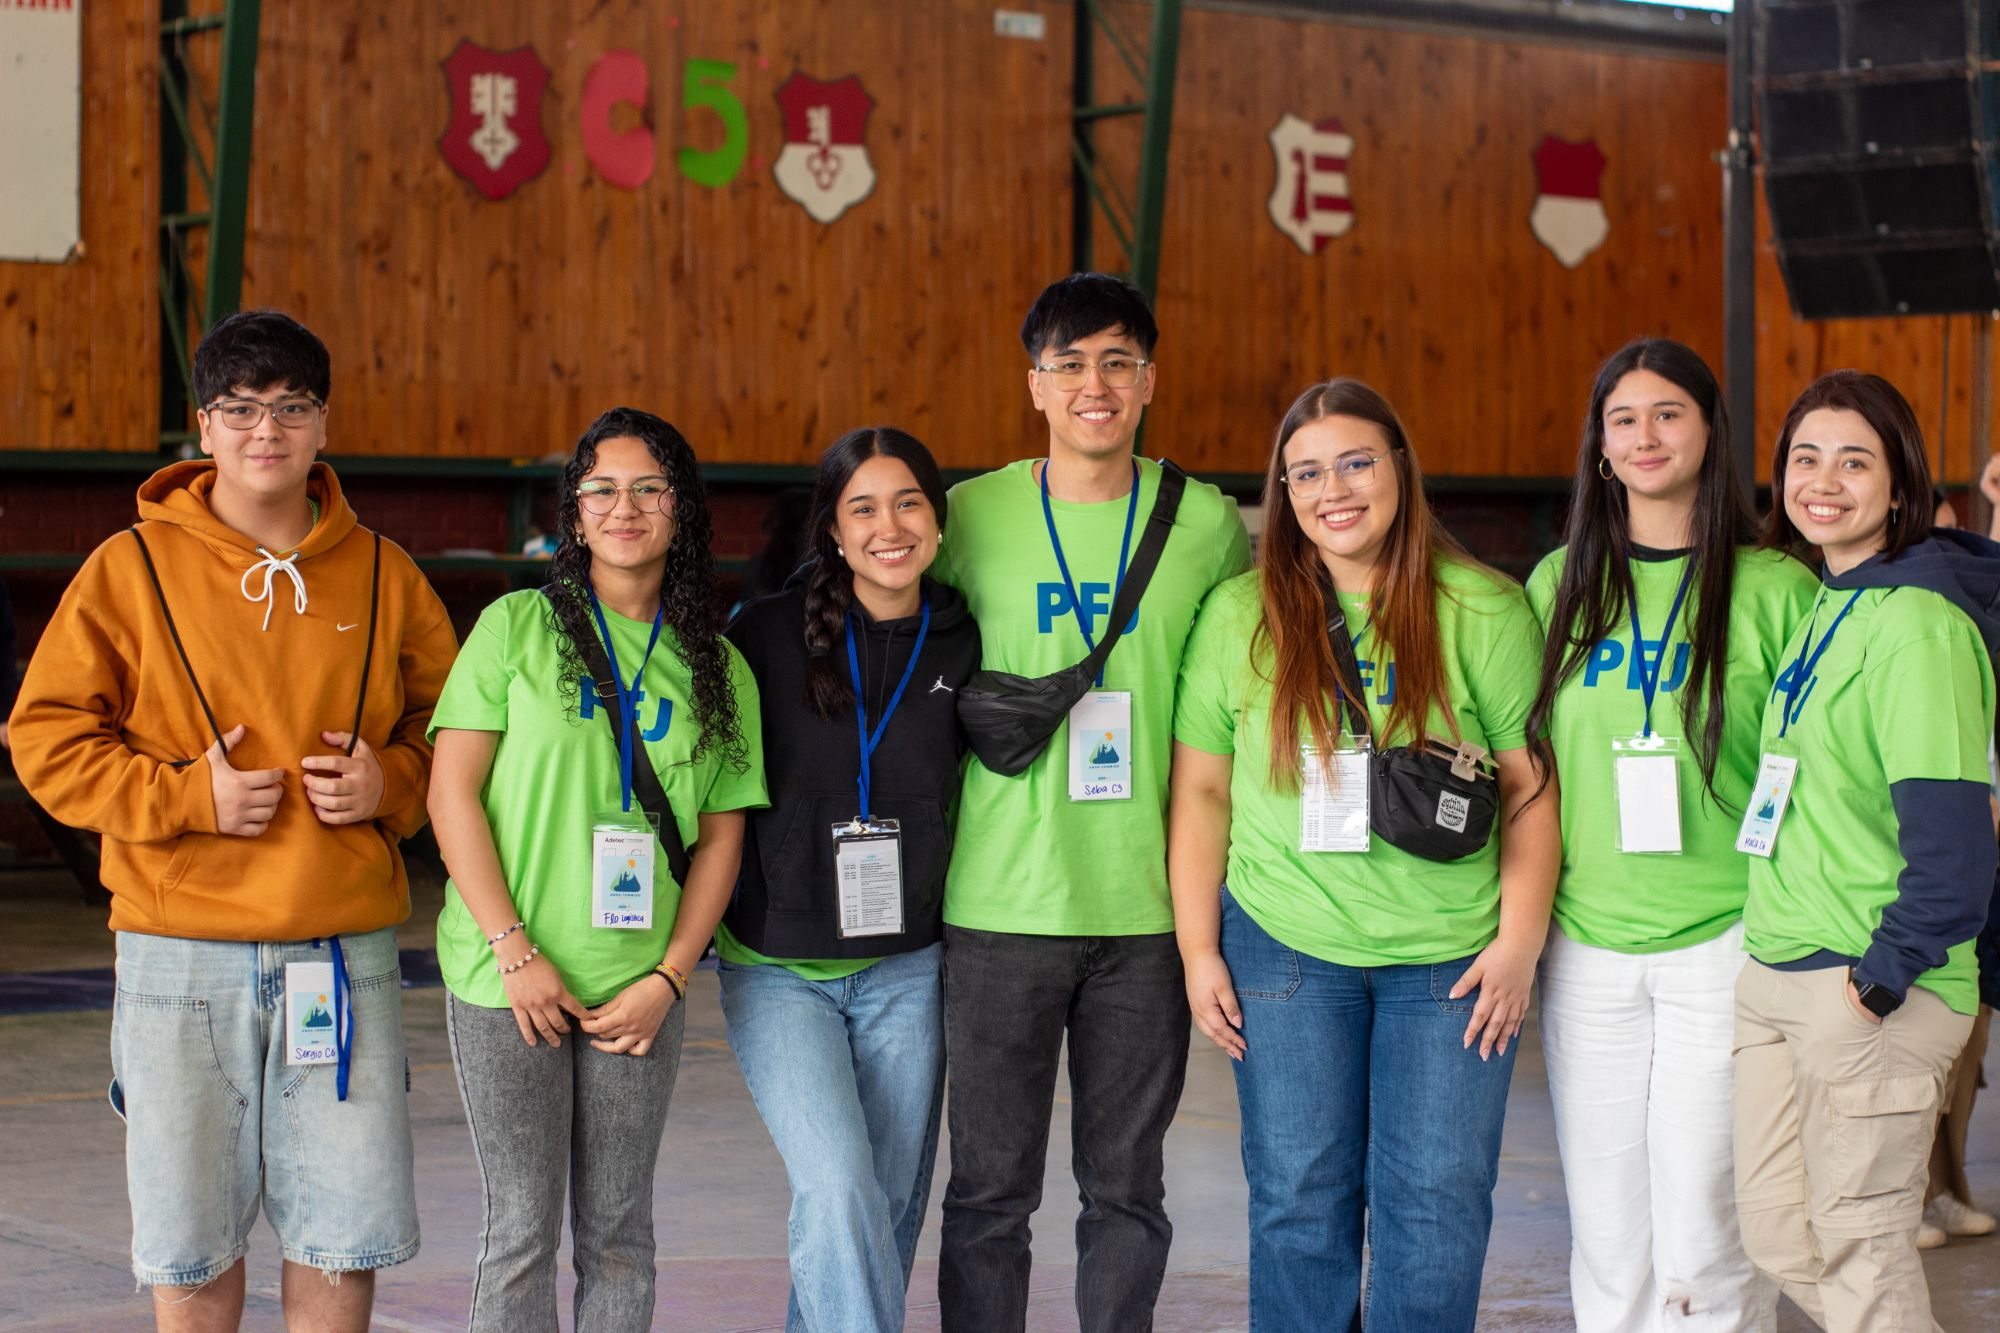
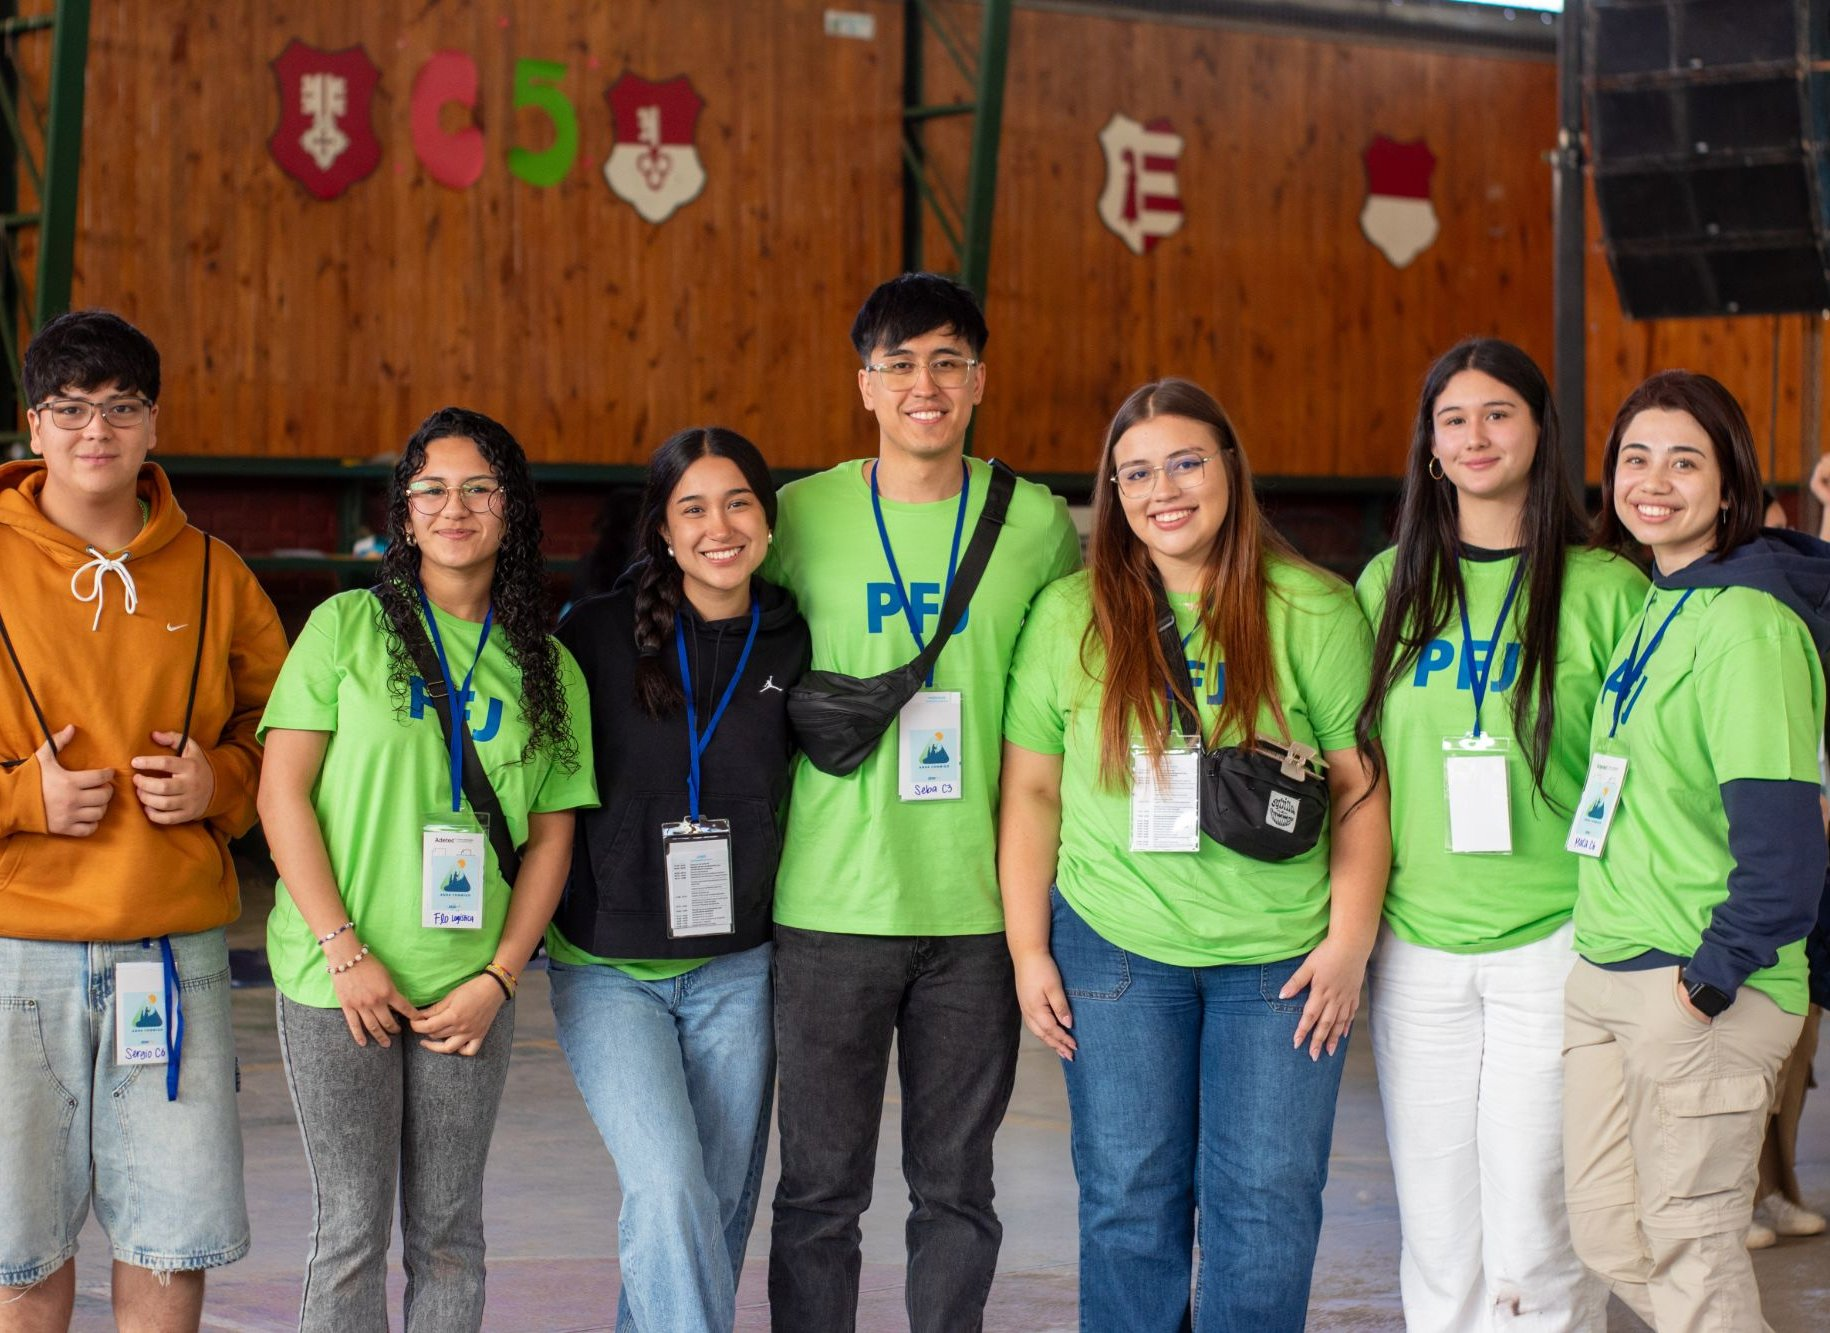
Foto de la tercera capacitación centrada

diff --git a/capacitacion-online/capacitacion-3.html b/capacitacion-online/capacitacion-3.html
@@ -27,7 +27,7 @@
   </div>
 
   <figure class="foto-portada">
-    <img src="img/foto-capacitacion-3.jpg" style="object-position: center 29%" alt="Grupo de consejeros y jóvenes de PFJ, sonriendo, con poleras verdes en un gimnasio" width="2000" height="1333">
+    <img src="img/foto-capacitacion-3.jpg" style="object-position: center 28%" alt="Grupo de consejeros y jóvenes de PFJ, sonriendo, con poleras verdes en un gimnasio" width="1830" height="1333">
   </figure>
 
   <div class="columna">
